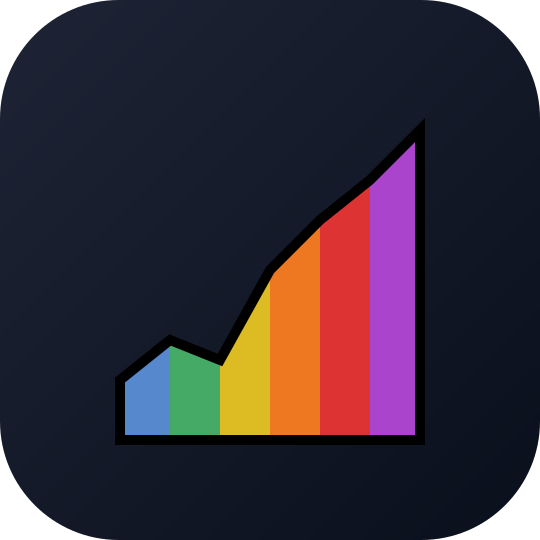
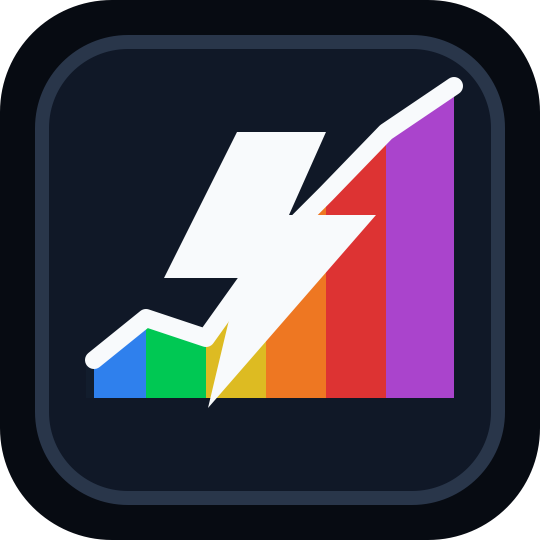
Release Karoo Power Graph 1.0.1

diff --git a/CHANGELOG.md b/CHANGELOG.md
@@ -3,6 +3,12 @@
 All notable changes to this extension are documented here.
 Format based on [Keep a Changelog](https://keepachangelog.com/en/1.1.0/); this project uses semantic versioning.
 
+## [1.0.1] — 2026-05-25
+
+### Changed
+- Replaced the app/repository icon with a Karoo Power Graph-specific graphic.
+- Removed inherited screenshot/photo assets from the README and OTA manifest.
+
 ## [1.0.0] — 2026-05-25
 
 ### Added
@@ -28,11 +34,7 @@ Format based on [Keep a Changelog](https://keepachangelog.com/en/1.1.0/); this p
 ### Added
 - **Power Zone Graph (NP)** — a second power data field that shows AVG and **Normalized Power** instead of MAX. Picked from the Karoo profile editor like any other field; user chooses which variant to place. Original "Power Zone Graph" with AVG/MAX is unchanged.
 
-  <img src="pwrgraphnp.jpg" alt="Karoo data-field picker showing the new Power Zone Graph (NP) entry with AVG and NP labels" width="320">
-
 - **Default time-window setting** — picker in the app's preview screen (1 min / 5 min / Full). The chosen value is persisted via DataStore and applied at service start to both HR and Power fields. The on-ride tap-toggle still cycles freely from there.
-
-  <img src="defaulttime.jpg" alt="Karoo running the app's preview screen with the new default-time-window picker (1 min / 5 min / Full) at the bottom" width="280">
 
 ### Changed
 - `GraphRenderer.render` accepts a `maxLabel` argument (default `"MAX"`); the NP variant passes `"NP"`. Existing call sites unaffected by the default.

diff --git a/README.md b/README.md
@@ -10,10 +10,6 @@ This is a personal fork of [svenk0711/sk0711-graph](https://github.com/svenk0711
 
 Tested on Karoo 3, compatible with Karoo 2.
 
-<p align="center">
-  <img src="sample1.jpg" alt="Two zone-graph data fields on a Karoo 3 during a ride — HR 133 bpm with a red/orange curve, Power 250 W with a multi-colored zone curve" width="360">
-</p>
-
 ## Features
 
 - **HR Zone Graph**, **Power Zone Graph** and **Power Zone Graph (NP)** as separate graphical data fields. The (NP) variant shows AVG and **Normalized Power** instead of MAX — useful for time trials.
@@ -25,7 +21,7 @@ Tested on Karoo 3, compatible with Karoo 2.
 
 ## Install
 
-Download `karoo-power-graph-1.0.0-debug.apk` from the [Releases](../../releases) page.
+Download `karoo-power-graph-1.0.1-debug.apk` from the [Releases](../../releases) page.
 
 > **OTA updates**: starting with 0.1.6, the Karoo OS itself checks for newer releases and offers a one-tap update on the device. You only need a manual sideload for the initial install (or to upgrade from 0.1.5 or earlier).
 
@@ -35,7 +31,7 @@ Download `karoo-power-graph-1.0.0-debug.apk` from the [Releases](../../releases)
 **Karoo 2:** install via ADB:
 
 ```
-adb install -r karoo-power-graph-1.0.0-debug.apk
+adb install -r karoo-power-graph-1.0.1-debug.apk
 ```
 
 Then in the Karoo ride-page editor, open the data field picker, find **Karoo Power Graph**, and add **HR Zone Graph**, **Power Zone Graph**, and/or **Power Zone Graph (NP)** to a page.
@@ -77,7 +73,7 @@ Then:
 ./gradlew assembleDebug
 ```
 
-Output: `app/build/outputs/apk/debug/karoo-power-graph-1.0.0-debug.apk`.
+Output: `app/build/outputs/apk/debug/karoo-power-graph-1.0.1-debug.apk`.
 
 ## License
 